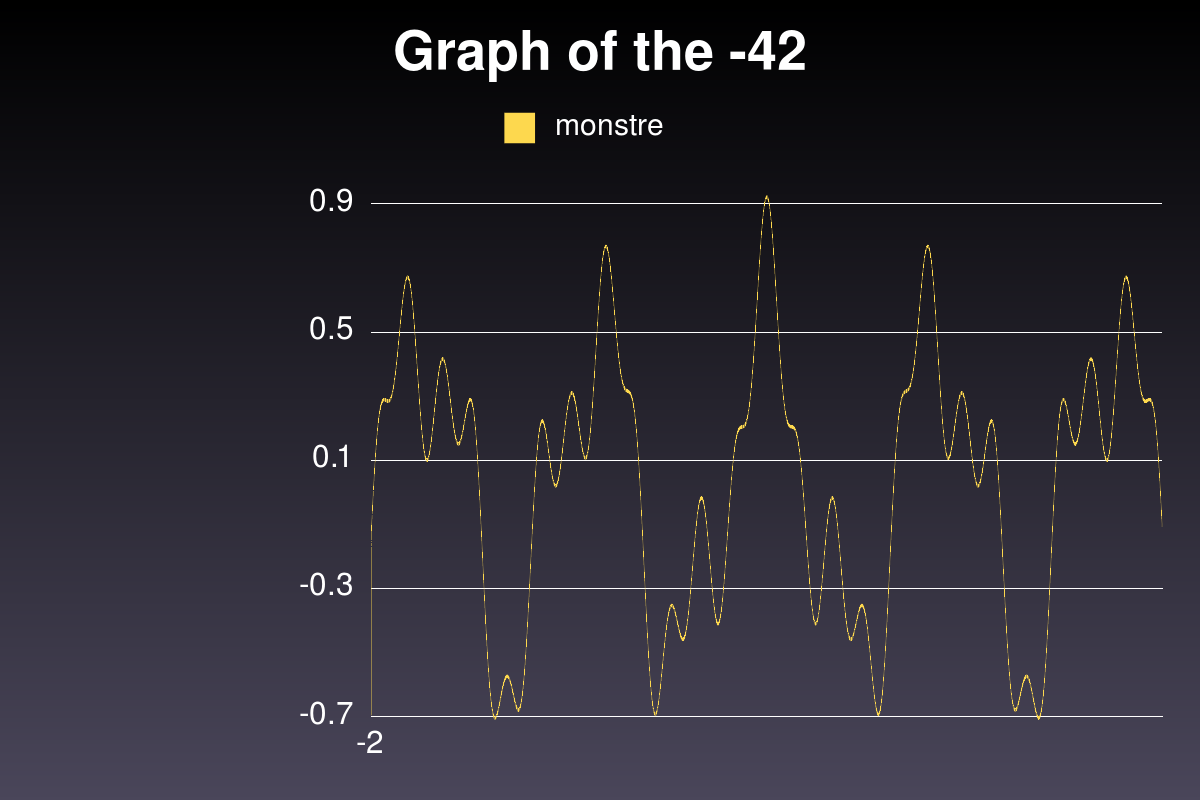
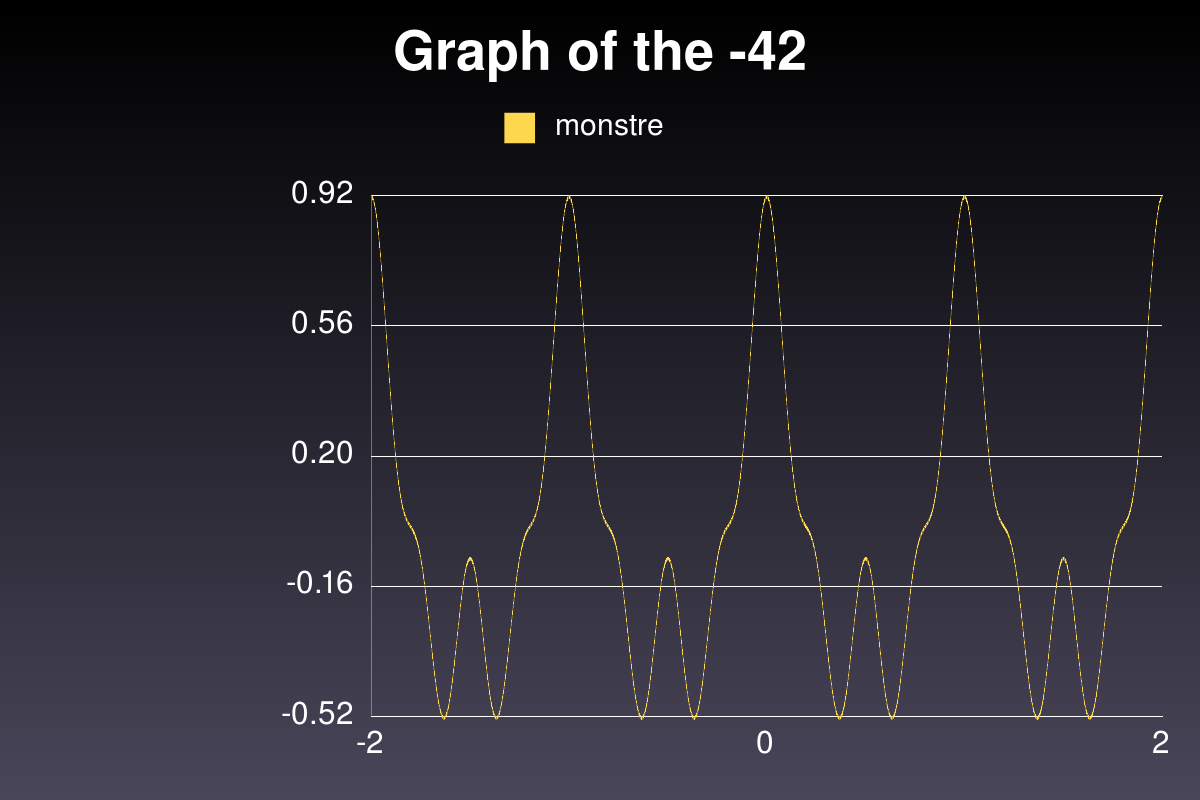
Fix axes

diff --git a/main.rb b/main.rb
@@ -25,13 +25,13 @@ def main_get_gruff xmin, xmax, n, resolution='1200x800'
   xmax = xmax.to_i
   xmin = xmin.to_i
 
-  xmax_ = (xmax - xmin) * n
+  xmax_ = (xmax - xmin) * (n / 2)
   xmin_ = 0
 
   g.labels = {
     xmin_ => xmin.to_s,
-    (xmax_ + xmin_) / 2 => '0',
-    (xmax_ + xmin_) + 1 => xmax.to_s,
+    (xmax_ + xmin) / 2  => '0',
+    (xmax_ + xmin_) - 1 => xmax.to_s,
   }
   return g
 end
